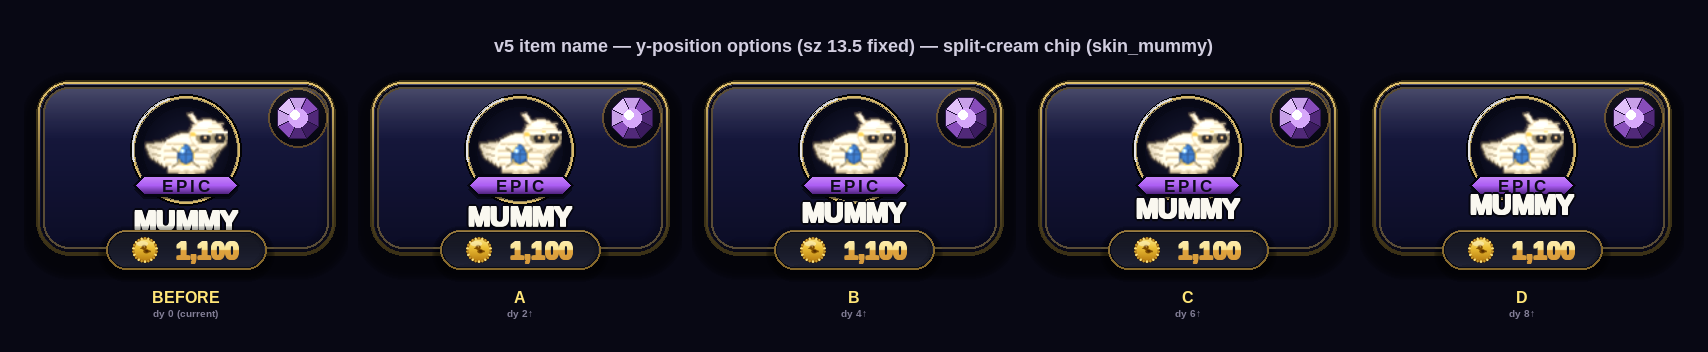
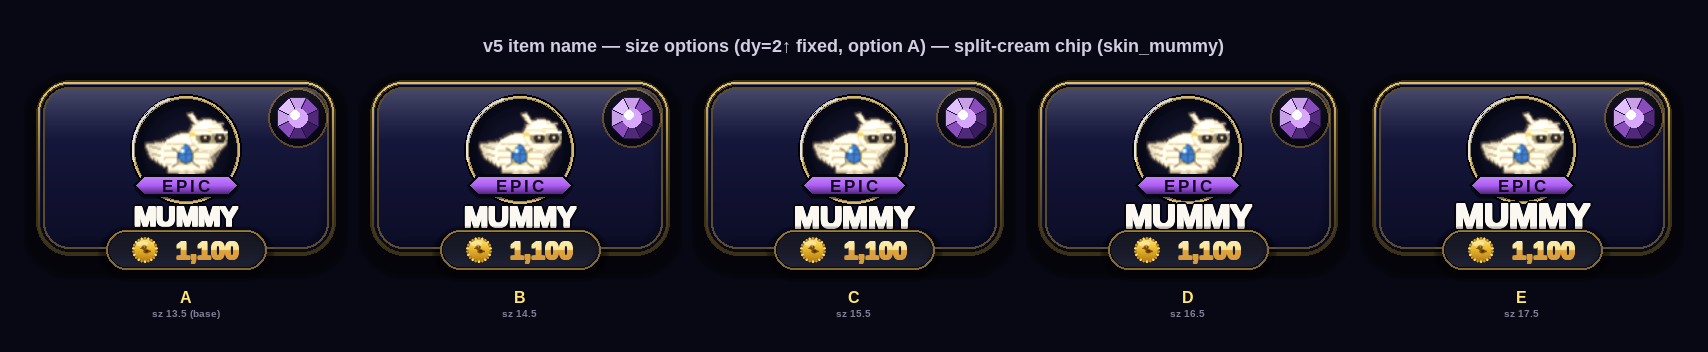
chore: name showcase — fixed dy=2 (option A), vary sz 13.5→17.5
Claude-Session: https://claude.ai/code/session_01DaGYw11VdAubog2VGiiucC

diff --git a/tools/_store_card_v5_name_size_showcase.py b/tools/_store_card_v5_name_size_showcase.py
@@ -172,11 +172,11 @@ def render_card(sz_logical, dy_logical):
 # ── options ───────────────────────────────────────────────────────────────────
 # (panel-id, sublabel, font-sz-logical, y-shift-logical-px-up)
 OPTIONS = [
-    ("BEFORE", "dy 0 (current)", 13.5, 0),
-    ("A",      "dy 2↑",         13.5, 2),
-    ("B",      "dy 4↑",         13.5, 4),
-    ("C",      "dy 6↑",         13.5, 6),
-    ("D",      "dy 8↑",         13.5, 8),
+    ("A",  "sz 13.5 (base)", 13.5, 2),
+    ("B",  "sz 14.5",        14.5, 2),
+    ("C",  "sz 15.5",        15.5, 2),
+    ("D",  "sz 16.5",        16.5, 2),
+    ("E",  "sz 17.5",        17.5, 2),
 ]
 
 # ── layout ────────────────────────────────────────────────────────────────────
@@ -195,7 +195,7 @@ canvas.fill(BG)
 
 hf   = hud_font(18, True)
 htxt = hf.render(
-    f"v5 item name — y-position options (sz 13.5 fixed) — split-cream chip ({SID})",
+    f"v5 item name — size options (dy=2↑ fixed, option A) — split-cream chip ({SID})",
     True, (210, 206, 224))
 canvas.blit(htxt, ((canvas_w - htxt.get_width()) // 2,
                    MARGIN + (HDR_H - htxt.get_height()) // 2))
